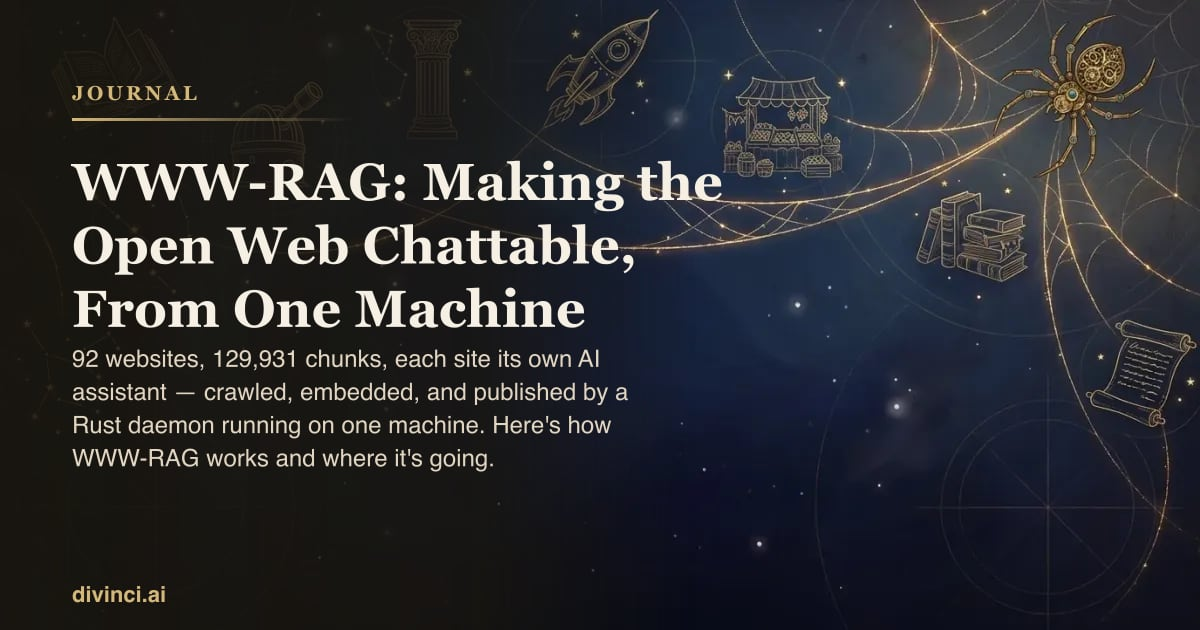
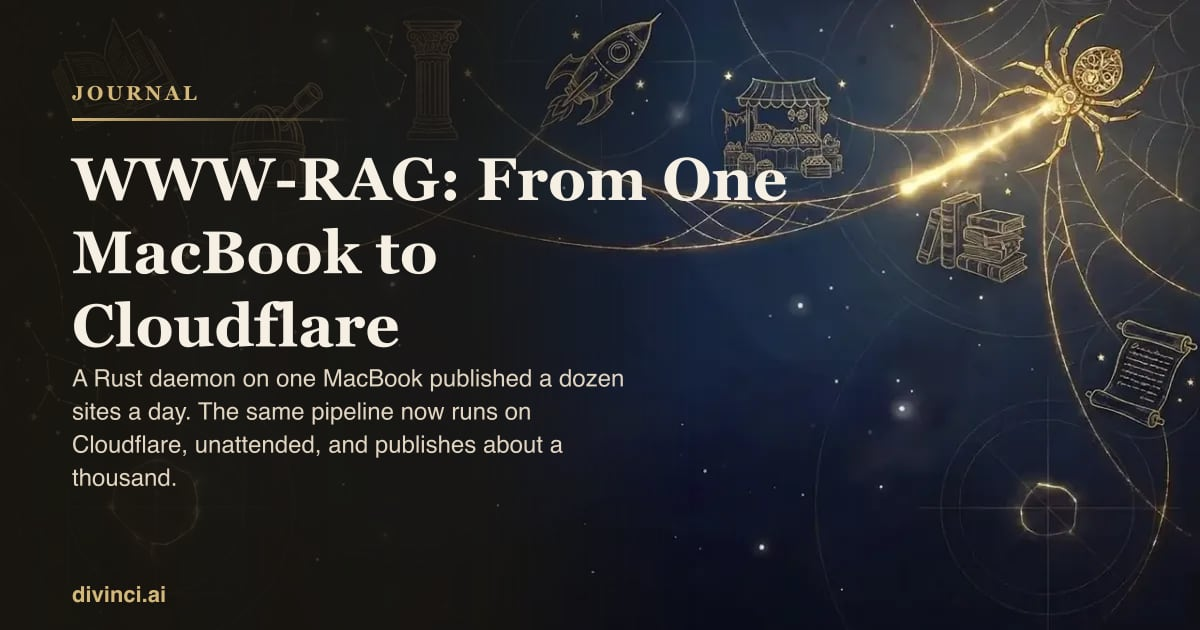
fix(blog): the WWW-RAG card was blank, and its unfurl cut the payload word
Adding hero_video to this post silently emptied its /blog/ thumbnail. The card
branch prefers hero_video over featured_image and renders
`<video preload="none">` with a poster ONLY if hero_video_poster is set — so
with neither, the card was a white rectangle. Every other hero_video post sets
hero_video_poster or featured_video, which is why this is the only one; found
by rendering /blog/ and asserting each of the 25 cards actually paints, not by
reading the HTML.

Three fixes:

**card_image**, an opt-in list thumbnail checked before any hero media. The
hero and the thumbnail are not always the same picture — a video hero has no
still that reads at 600px. Opt-in, so no post that omits it changes.

**The unfurl card was NOT the right thumbnail**, though it was the obvious
candidate. Rendered in the grid it prints the title twice — once typeset in the
image, once as the card title directly beneath — at a size too small to read,
and it is the only card in the grid with baked-in text. The hero poster is what
ships; the OG card stays the unfurl.

**TITLE_OVERRIDE for the OG card.** At card size the page title wrapped to
"…From One MacBook to…", cutting the one word the headline turns on. The page
<title> stays SEO-complete at 70 chars; the card gets "WWW-RAG: From One
MacBook to Cloudflare", which fits in three lines with no ellipsis.

og/www-rag.jpg is also regenerated — it still said "WWW-RAG Directory" after
[…]

diff --git a/site/templates/blog.html b/site/templates/blog.html
@@ -287,7 +287,14 @@
                                            an aria-hidden subtree is its own violation. #}
                                         <a href="{{ post.permalink | safe }}" class="post-image-link" aria-hidden="true" tabindex="-1">
                                         {% set vid_filter = post.extra.hero_video_filter | default(value="") %}
-                                        {% if post.extra.featured_video %}
+                                        {# card_image: an explicit list thumbnail, checked before any hero
+                                           media. Opt-in — no post that omits it changes. It exists because
+                                           the hero and the thumbnail are not always the same picture: a
+                                           video hero has no still that reads at 600px, and a post may want
+                                           its typeset OG card here instead of its hero art. #}
+                                        {% if post.extra.card_image %}
+                                            <img src="/cdn-cgi/image/width=600,format=auto,quality=82/{{ post.extra.card_image }}" alt="{{ post.title }}" width="600" height="338" class="post-image" loading="lazy" decoding="async" onerror="this.onerror=null;this.src='{{ get_url(path=post.extra.card_image) | safe }}';">
+                                        {% elif post.extra.featured_video %}
                                             {% set vid_src = post.extra.featured_video %}
                                             {# CIR-resize local poster to ~600w (~10-20KB instead of full-res) #}
                                             {% if post.extra.hero_video_poster %}{% if post.extra.hero_video_poster is starting_with("http") %}{% set pc_poster = post.extra.hero_video_poster %}{% else %}{% set pc_poster = '/cdn-cgi/image/width=600,format=auto,quality=80' ~ post.extra.hero_video_poster %}{% endif %}{% endif %}

diff --git a/site/content/blog/www-rag-making-the-open-web-chattable.md b/site/content/blog/www-rag-making-the-open-web-chattable.md
@@ -22,6 +22,12 @@ featured_image = "images/www-rag-directory-hero.webp"
 # selects the raw, no-cream-wash treatment — see blog-post.html.
 hero_background = "images/www-rag-directory-hero-poster.webp"
 hero_video = "https://pub-fb3e683317b24cf8b4260121edae02be.r2.dev/www-rag-directory-veo31.webm"
+# The list thumbnail. Without it the card is a <video preload="none"> with
+# no poster — i.e. BLANK, which is what adding hero_video did to it. The
+# typeset OG card was the other candidate and reads worse here: the grid
+# already prints the title under the image, so it appeared twice, at a size
+# too small to read. Every other card in the grid is plain art.
+card_image = "images/www-rag-directory-hero-poster.webp"
 +++
 
 ---
